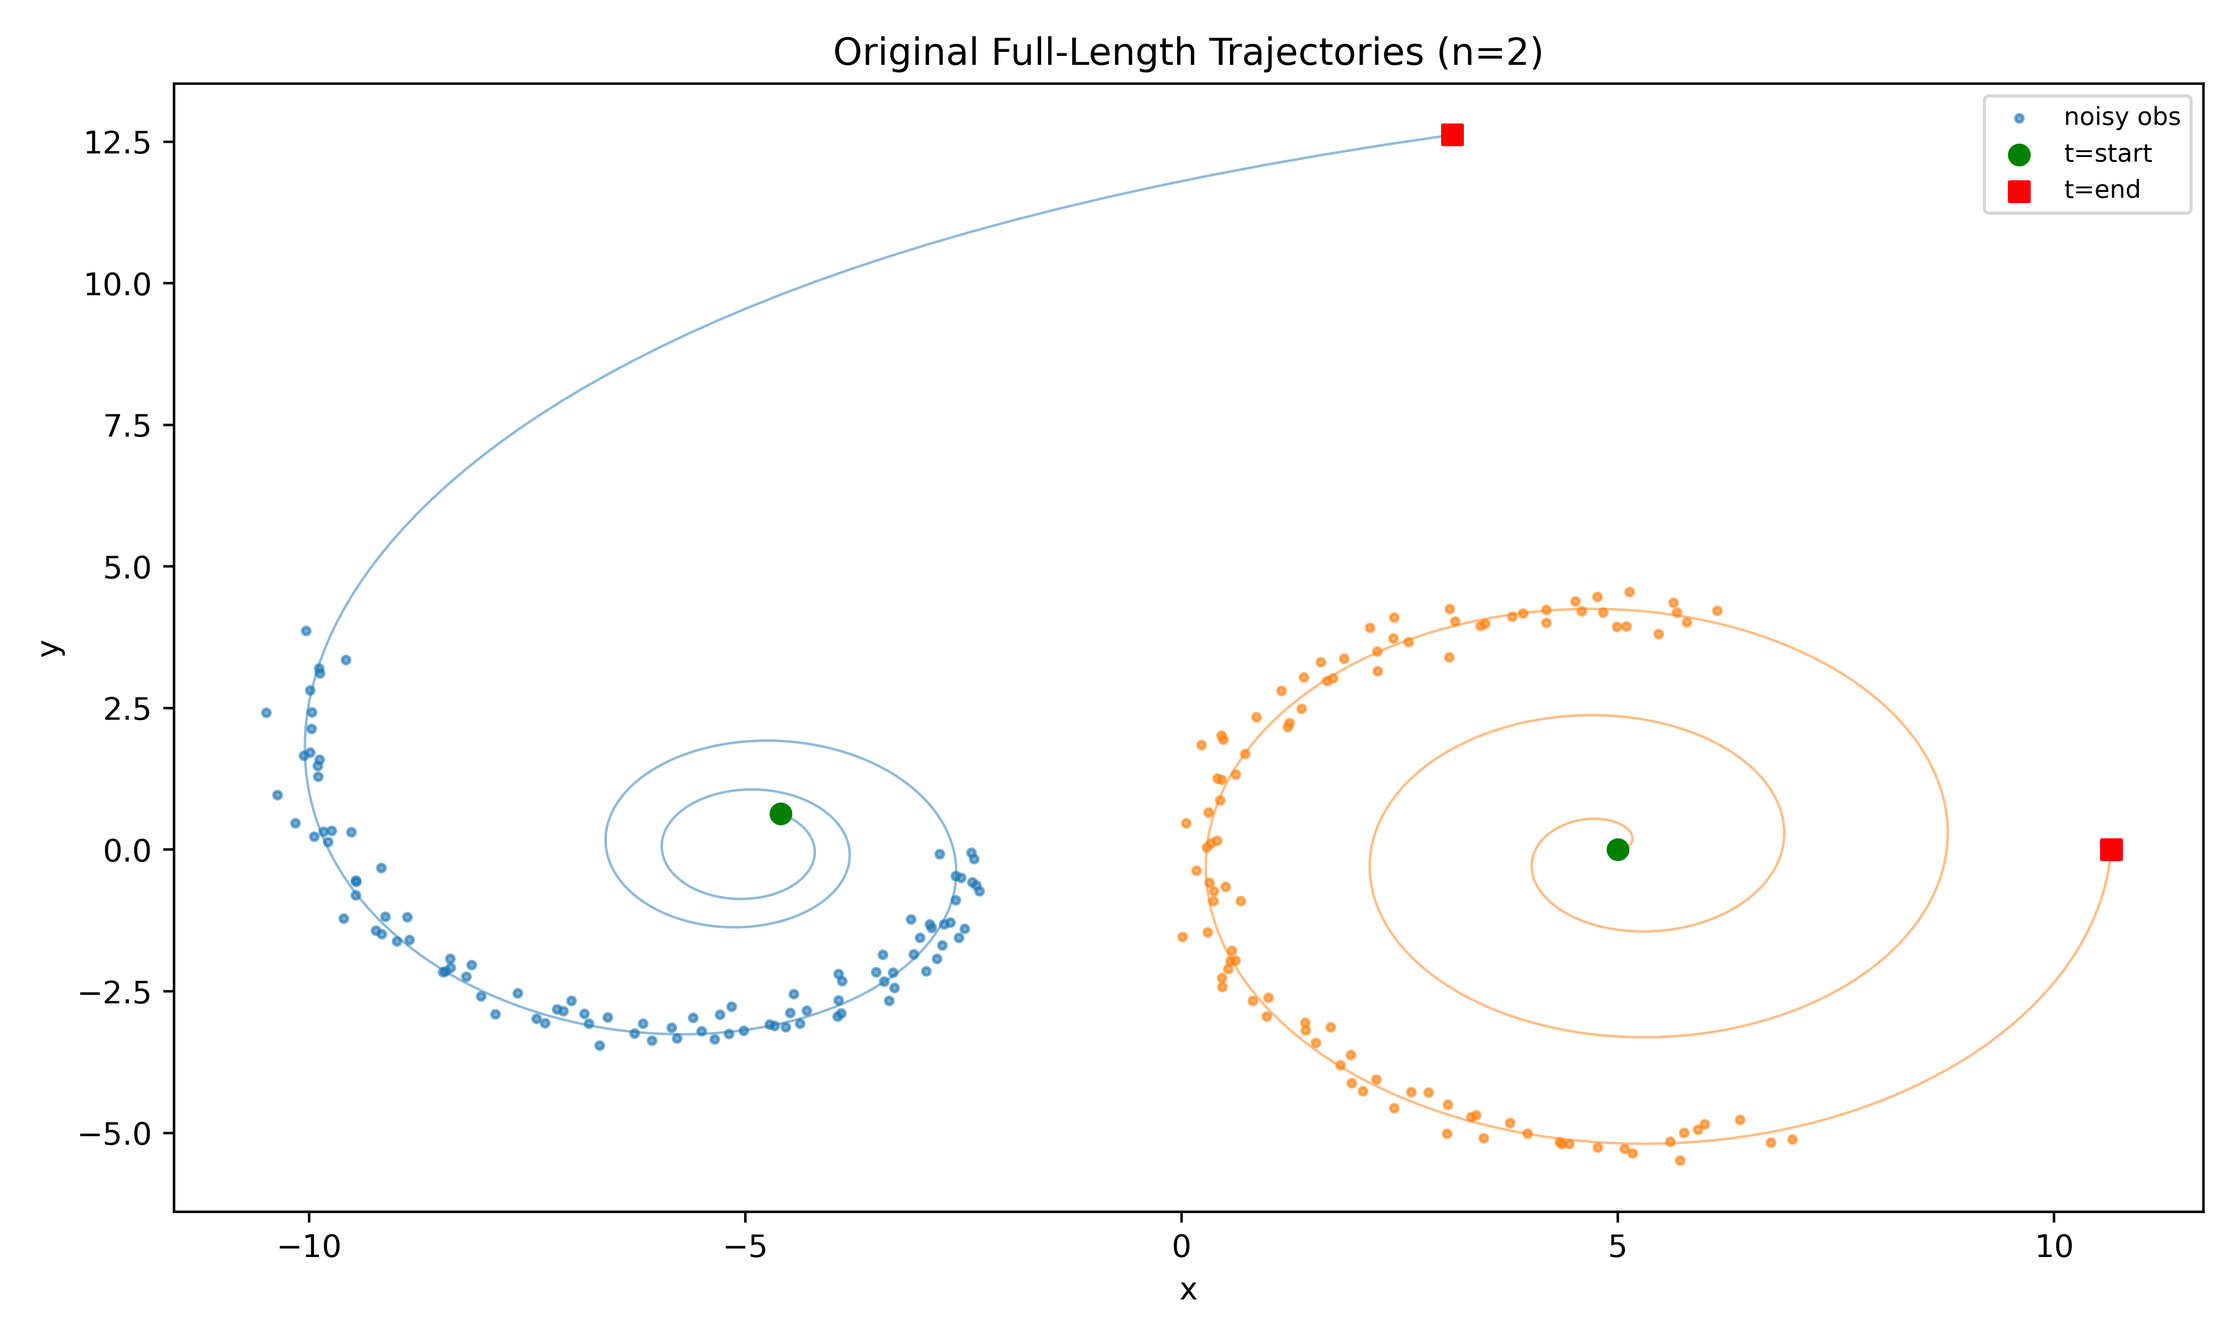
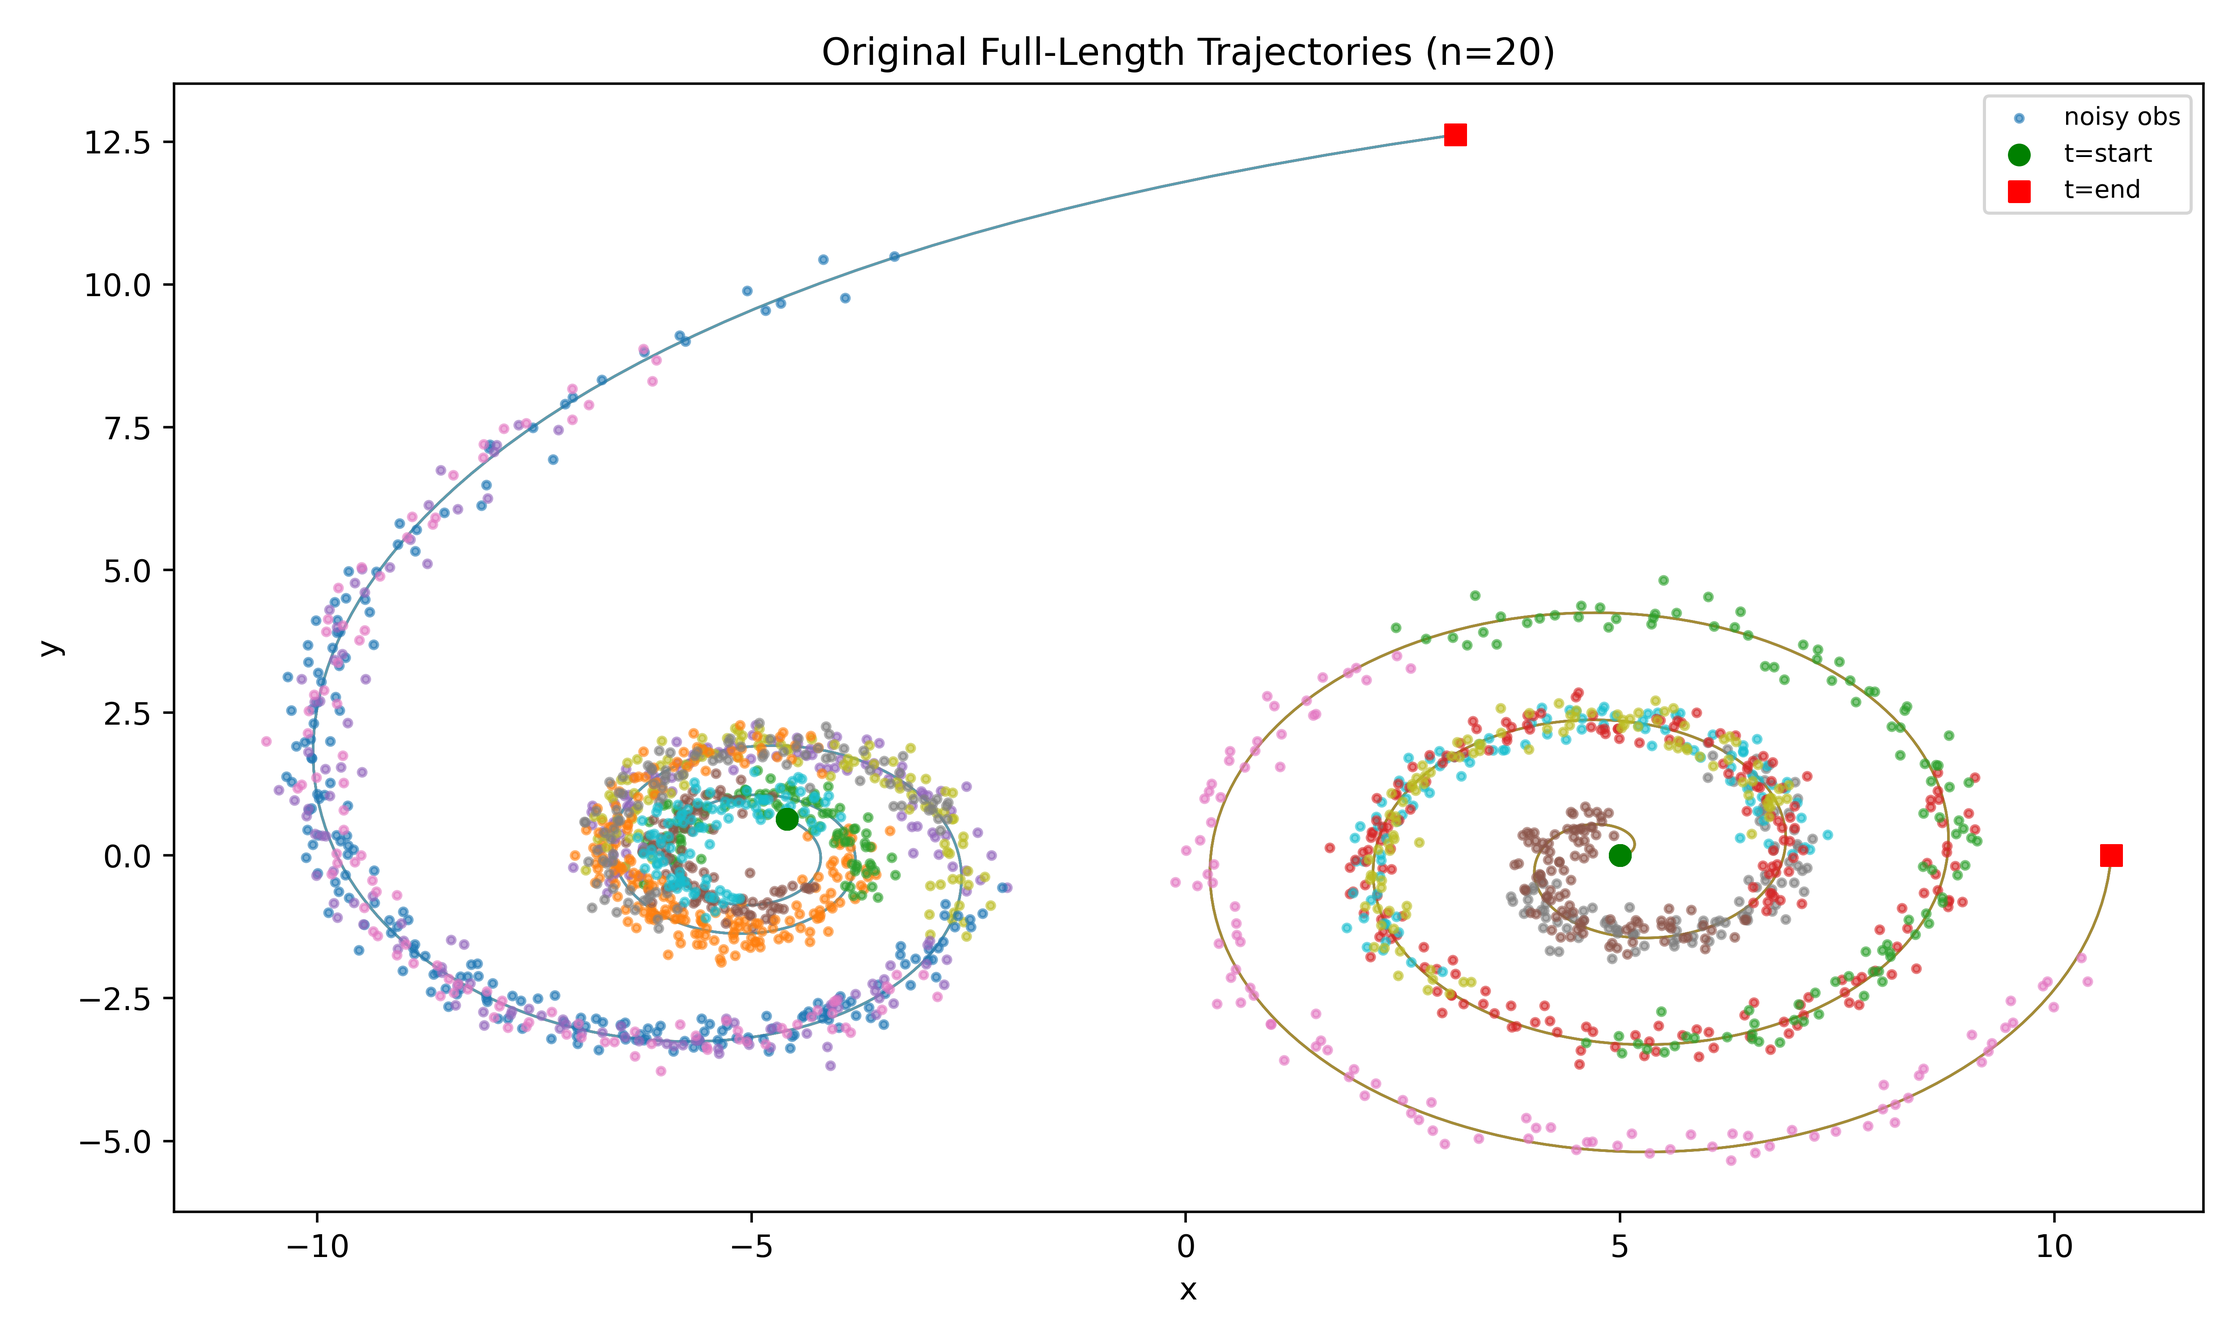
improved data generation + plotting

diff --git a/Experiments/extrapolation_experiment.py b/Experiments/extrapolation_experiment.py
@@ -73,8 +73,8 @@ def plot_original_trajectories(orig_trajs, samp_trajs, orig_ts, n_plot=10, figsi
 #Indicies of the 4 spirals
 VIZ_SPIRAL_IDX = [0, 1, 2, 3]
 
-def visualize(func, rec, dec, orig_trajs, samp_trajs, samp_ts, orig_ts_np,
-              start_idxs, latent_dim, device, save_path):
+def visualize(func, rec, dec, orig_trajs, samp_trajs, samp_ts, orig_ts_np, 
+              latent_dim, device, save_path, extrap_stop=8*np.pi):
     with torch.no_grad():
         fig, axes = plt.subplots(2, 2, figsize=(12, 10))
         axes = axes.flatten()
@@ -82,47 +82,50 @@ def visualize(func, rec, dec, orig_trajs, samp_trajs, samp_ts, orig_ts_np,
         for plot_i, spiral_idx in enumerate(VIZ_SPIRAL_IDX):
             ax = axes[plot_i]
 
-            # encode exactly as training
+            orig_traj = orig_trajs[spiral_idx].cpu().numpy()  # (ntotal, 2)
+
+            # --- Build a noisy observation spanning the FULL curve ---
+            # Add noise to every point on the original trajectory
+            noise = torch.randn_like(orig_trajs[spiral_idx]) * 0.2
+            full_noisy_traj = orig_trajs[spiral_idx] + noise  # (ntotal, 2)
+
+            # --- Encode full noisy trajectory in reverse to get z0 at t=0 ---
             h = rec.initHidden().to(device)
-            for t in reversed(range(samp_trajs.size(1))):
-                obs = samp_trajs[:, t, :]
+            for t in reversed(range(full_noisy_traj.size(0))):
+                obs = full_noisy_traj[t, :].unsqueeze(0)  # (1, 2)
                 out, h = rec.forward(obs, h)
 
             qz0_mean, qz0_logvar = out[:, :latent_dim], out[:, latent_dim:]
             epsilon = torch.randn(qz0_mean.size()).to(device)
-            z0_all = epsilon * torch.exp(0.5 * qz0_logvar) + qz0_mean
-            z0 = z0_all[spiral_idx]
+            z0 = epsilon * torch.exp(0.5 * qz0_logvar) + qz0_mean  # (1, latent_dim)
 
-            orig_traj = orig_trajs[spiral_idx].cpu().numpy()
-            samp_traj = samp_trajs[spiral_idx].cpu().numpy()
-            t0_idx = start_idxs[spiral_idx]
-            abs_start_t = orig_ts_np[t0_idx]          # real start time for THIS spiral
+            # --- Extrapolate from t=0 forward to extrap_stop ---
+            ts_extrap = torch.linspace(orig_ts_np[0], extrap_stop, 3000).float().to(device)
+            xs_extrap = dec(odeint(func, z0, ts_extrap)).cpu().numpy()  # (3000, 2)
 
-            # Forward extrapolation
-            ts_fwd = torch.linspace(abs_start_t, orig_ts_np[-1], 2000).float().to(device)
-            xs_fwd = dec(odeint(func, z0, ts_fwd)).cpu().numpy()
-
-            # Backward extrapolation (now trained!)
-            back_span = abs_start_t - orig_ts_np[0]   # how far back we can go
-            ts_back = torch.linspace(abs_start_t, abs_start_t - back_span, 1000).float().to(device)
-            xs_back = dec(odeint(func, z0, ts_back)).cpu().numpy()
-
+            # --- Plot ---
             ax.plot(orig_traj[:, 0], orig_traj[:, 1],
-                    'g', label='true trajectory (full)', linewidth=1.5)
-            ax.plot(xs_fwd[:, 0], xs_fwd[:, 1],
-                    'r', label='learned forward', linewidth=1.2)
-            ax.plot(xs_back[:, 0], xs_back[:, 1],
-                    'c', label='learned backward', linewidth=1.2)
-            ax.scatter(samp_traj[:, 0], samp_traj[:, 1],
-                       label='observed data', s=4, alpha=0.7, color='blue')
+                    'g', label='true trajectory (train range)', linewidth=1.5)
+            ax.plot(xs_extrap[:, 0], xs_extrap[:, 1],
+                    'r', label=f'extrapolated (t=0 → {extrap_stop/np.pi:.0f}π)', linewidth=1.2)
+            ax.scatter(full_noisy_traj[:, 0].cpu().numpy(),
+                       full_noisy_traj[:, 1].cpu().numpy(),
+                       label='full noisy obs (encoder input)', s=4, alpha=0.4, color='blue')
 
-            ax.set_title(f'Spiral {spiral_idx} (obs start at t≈{abs_start_t:.2f})')
-            ax.legend(fontsize=8)
+            # Mark t=0 on the true trajectory
+            ax.scatter(*orig_traj[0], color='green', s=80, zorder=5, marker='o',
+                       label='t=0 (true)')
+            # Mark where extrapolation ends
+            ax.scatter(*xs_extrap[-1], color='red', s=80, zorder=5, marker='s',
+                       label=f't={extrap_stop/np.pi:.0f}π (extrap end)')
+
+            ax.set_title(f'Spiral {spiral_idx} — encoded to t=0, extrap to {extrap_stop/np.pi:.0f}π')
+            ax.legend(fontsize=7)
 
         plt.tight_layout()
         plt.savefig(save_path, dpi=300)
         plt.close()
-        print(f'Saved bidirectional visualization at {save_path}')    
+        print(f'Saved extrapolation visualization at {save_path}')    
      
 
 if __name__ == '__main__':
@@ -152,112 +155,112 @@ if __name__ == '__main__':
         start=start,
         stop=stop,
         noise_std=noise_std,
-        a=a, b=b, rng=data_rng
+        a=a, b=b, rng=data_rng, start_at_center=True
     )
 
     orig_trajs = torch.from_numpy(orig_trajs).float().to(device)
     samp_trajs = torch.from_numpy(samp_trajs).float().to(device)
     samp_ts = torch.from_numpy(samp_ts).float().to(device)
 
-    plot_original_trajectories(orig_trajs, samp_trajs, orig_ts, n_plot=2)
+    plot_original_trajectories(orig_trajs, samp_trajs, orig_ts, n_plot=20)
 
-    # # model
-    # func = LatentODEfunc(latent_dim, nhidden).to(device)
-    # rec = RecognitionRNN(latent_dim, obs_dim, rnn_nhidden, nspiral).to(device)
-    # dec = Decoder(latent_dim, obs_dim, nhidden).to(device)
-    # params = (list(func.parameters()) + list(dec.parameters()) + list(rec.parameters()))
-    # optimizer = optim.Adam(params, lr=args.lr)
-    # loss_meter = RunningAverageMeter()
+    # model
+    func = LatentODEfunc(latent_dim, nhidden).to(device)
+    rec = RecognitionRNN(latent_dim, obs_dim, rnn_nhidden, nspiral).to(device)
+    dec = Decoder(latent_dim, obs_dim, nhidden).to(device)
+    params = (list(func.parameters()) + list(dec.parameters()) + list(rec.parameters()))
+    optimizer = optim.Adam(params, lr=args.lr)
+    loss_meter = RunningAverageMeter()
 
-    # anneal_label = "kl_anneal" if args.kl_anneal else "no_kl_anneal"
-    # print(f'Starting training: niters={args.niters}, lr={args.lr}, 'f'kl_anneal={args.kl_anneal}, seed={args.seed}')
+    anneal_label = "kl_anneal" if args.kl_anneal else "no_kl_anneal"
+    print(f'Starting training: niters={args.niters}, lr={args.lr}, 'f'kl_anneal={args.kl_anneal}, seed={args.seed}')
     
-    # log_path = f'./log-{args.niters}-{args.lr}-{anneal_label}.csv'
-    # log_file = open(log_path, 'w', newline='')
-    # csv_writer = csv.writer(log_file)
-    # csv_writer.writerow(['iter', 'loss', 'elbo', 'kl', 'weighted_kl', 'kl_weight', 'extrap_mse'])
+    log_path = f'./log-{args.niters}-{args.lr}-{anneal_label}.csv'
+    log_file = open(log_path, 'w', newline='')
+    csv_writer = csv.writer(log_file)
+    csv_writer.writerow(['iter', 'loss', 'elbo', 'kl', 'weighted_kl', 'kl_weight', 'extrap_mse'])
 
-    # try:
-    #     for itr in range(1, args.niters + 1):
-    #         optimizer.zero_grad()
-    #         # backward in time to infer q(z_0)
-    #         h = rec.initHidden().to(device)
+    try:
+        for itr in range(1, args.niters + 1):
+            optimizer.zero_grad()
+            # backward in time to infer q(z_0)
+            h = rec.initHidden().to(device)
 
-    #         #Encode first half
-    #         for t in reversed(range(samp_trajs.size(1))):
-    #             obs = samp_trajs[:, t, :]
-    #             out, h = rec.forward(obs, h)
+            #Encode first half
+            for t in reversed(range(samp_trajs.size(1))):
+                obs = samp_trajs[:, t, :]
+                out, h = rec.forward(obs, h)
 
-    #         qz0_mean, qz0_logvar = out[:, :latent_dim], out[:, latent_dim:]
-    #         epsilon = torch.randn(qz0_mean.size()).to(device)
-    #         z0 = epsilon * torch.exp(.5 * qz0_logvar) + qz0_mean
+            qz0_mean, qz0_logvar = out[:, :latent_dim], out[:, latent_dim:]
+            epsilon = torch.randn(qz0_mean.size()).to(device)
+            z0 = epsilon * torch.exp(.5 * qz0_logvar) + qz0_mean
 
-    #         # forward in time and solve ode for reconstructions
-    #         pred_z = odeint(func, z0, samp_ts).permute(1, 0, 2)
-    #         pred_x = dec(pred_z)
+            # forward in time and solve ode for reconstructions
+            pred_z = odeint(func, z0, samp_ts).permute(1, 0, 2)
+            pred_x = dec(pred_z)
 
-    #         # compute loss
-    #         noise_std_ = torch.zeros(pred_x.size()).to(device) + noise_std
-    #         noise_logvar = 2. * torch.log(noise_std_).to(device)
+            # compute loss
+            noise_std_ = torch.zeros(pred_x.size()).to(device) + noise_std
+            noise_logvar = 2. * torch.log(noise_std_).to(device)
             
-    #         logpx = log_normal_pdf(
-    #             samp_trajs, pred_x, noise_logvar).sum(-1).sum(-1)
-    #         pz0_mean = pz0_logvar = torch.zeros(z0.size()).to(device)
-    #         analytic_kl = normal_kl(qz0_mean, qz0_logvar,
-    #                                 pz0_mean, pz0_logvar).sum(-1)
+            logpx = log_normal_pdf(
+                samp_trajs, pred_x, noise_logvar).sum(-1).sum(-1)
+            pz0_mean = pz0_logvar = torch.zeros(z0.size()).to(device)
+            analytic_kl = normal_kl(qz0_mean, qz0_logvar,
+                                    pz0_mean, pz0_logvar).sum(-1)
 
-    #         #Annealing strategy from: https://github.com/YuliaRubanova/latent_ode/blob/master/run_models.py#L259
-    #         wait_until_kl_inc = args.niters // 10
-    #         if args.kl_anneal:
-    #             if itr < wait_until_kl_inc:
-    #                 kl_weight = 0
-    #             else:
-    #                 kl_weight = (1 - 0.99 ** (itr - wait_until_kl_inc))
-    #         else:
-    #             kl_weight = 1.0
+            #Annealing strategy from: https://github.com/YuliaRubanova/latent_ode/blob/master/run_models.py#L259
+            wait_until_kl_inc = args.niters // 10
+            if args.kl_anneal:
+                if itr < wait_until_kl_inc:
+                    kl_weight = 0
+                else:
+                    kl_weight = (1 - 0.99 ** (itr - wait_until_kl_inc))
+            else:
+                kl_weight = 1.0
 
-    #         loss = torch.mean(-logpx + kl_weight*analytic_kl, dim=0)
-    #         loss.backward()
-    #         optimizer.step()
-    #         loss_meter.update(loss.item())
+            loss = torch.mean(-logpx + kl_weight*analytic_kl, dim=0)
+            loss.backward()
+            optimizer.step()
+            loss_meter.update(loss.item())
 
-    #         #raw per-iteration values
-    #         loss_raw = loss.item()
-    #         elbo_raw = logpx.mean().item()
-    #         wkl_raw = kl_weight * analytic_kl.mean().item()
+            #raw per-iteration values
+            loss_raw = loss.item()
+            elbo_raw = logpx.mean().item()
+            wkl_raw = kl_weight * analytic_kl.mean().item()
 
-    #         csv_writer.writerow([itr, loss_raw, elbo_raw, analytic_kl.mean().item(), wkl_raw, kl_weight])
+            csv_writer.writerow([itr, loss_raw, elbo_raw, analytic_kl.mean().item(), wkl_raw, kl_weight])
 
-    #         print('Iter: {}, running avg elbo: {:.4f}, running kl: {:.4f}, kl_weight: {:.4f}'.format(itr, -loss_meter.avg, analytic_kl.mean().item(), kl_weight))
+            print('Iter: {}, running avg elbo: {:.4f}, running kl: {:.4f}, kl_weight: {:.4f}'.format(itr, -loss_meter.avg, analytic_kl.mean().item(), kl_weight))
 
-    # except KeyboardInterrupt:
-    #     if args.train_dir is not None:
-    #         ckpt_path = os.path.join(args.train_dir, 'ckpt.pth')
-    #         torch.save({
-    #             'func_state_dict': func.state_dict(),
-    #             'rec_state_dict': rec.state_dict(),
-    #             'dec_state_dict': dec.state_dict(),
-    #             'optimizer_state_dict': optimizer.state_dict(),
-    #             'orig_trajs': orig_trajs,
-    #             'samp_trajs': samp_trajs,
-    #             'orig_ts': orig_ts,
-    #             'samp_ts': samp_ts,
-    #         }, ckpt_path)
-    #         print('Stored ckpt at {}'.format(ckpt_path))
+    except KeyboardInterrupt:
+        if args.train_dir is not None:
+            ckpt_path = os.path.join(args.train_dir, 'ckpt.pth')
+            torch.save({
+                'func_state_dict': func.state_dict(),
+                'rec_state_dict': rec.state_dict(),
+                'dec_state_dict': dec.state_dict(),
+                'optimizer_state_dict': optimizer.state_dict(),
+                'orig_trajs': orig_trajs,
+                'samp_trajs': samp_trajs,
+                'orig_ts': orig_ts,
+                'samp_ts': samp_ts,
+            }, ckpt_path)
+            print('Stored ckpt at {}'.format(ckpt_path))
 
-    # log_file.close()
-    # print(f"Saved training log to {log_path}")
-    # print(f'Training complete after {itr} iters.')
+    log_file.close()
+    print(f"Saved training log to {log_path}")
+    print(f'Training complete after {itr} iters.')
 
-    # #ensures memory is returned to the driver cleanly.
-    # if torch.cuda.is_available():
-    #     torch.cuda.empty_cache()
+    #ensures memory is returned to the driver cleanly.
+    if torch.cuda.is_available():
+        torch.cuda.empty_cache()
 
-    # if args.visualize:
-    #     fig_name = f'./vis-{args.niters}-{args.lr}-{anneal_label}.png'
-    #     visualize(
-    #         func, rec, dec,
-    #         orig_trajs, samp_trajs, samp_ts,
-    #         orig_ts, start_idxs, latent_dim, device,
-    #         save_path=fig_name
-    #     )
+    if args.visualize:
+        fig_name = f'./vis-{args.niters}-{args.lr}-{anneal_label}.png'
+        visualize(
+            func, rec, dec,
+            orig_trajs, samp_trajs, samp_ts,
+            orig_ts, latent_dim, device,
+            save_path=fig_name
+        )

diff --git a/models/latent_ode.py b/models/latent_ode.py
@@ -36,7 +36,8 @@ def generate_spiral2d(nspiral=1000,
                       a=0.,
                       b=1.,
                       savefig=True,
-                      rng=None):
+                      rng=None, 
+                      start_at_center=False):
     """Parametric formula for 2d spiral is `r = a + b * theta`.
 
     Args:
@@ -87,17 +88,23 @@ def generate_spiral2d(nspiral=1000,
     orig_trajs = []
     samp_trajs = []
     for _ in range(nspiral):
-        # don't sample t0 very near the start or the end
-        #independently draws a new random t0 for each of the 1000 spirals. 
-        #So each trajectory gets its own random starting point, and the 100-point window 
-        #[t0_idx : t0_idx + nsample] is cut from that unique position.
-        t0_idx = rng.multinomial(
-            1, [1. / (ntotal - 2. * nsample)] * (ntotal - int(2 * nsample)))
-        t0_idx = np.argmax(t0_idx) + nsample
-
         cc = bool(rng.rand() > .5)  # uniformly select rotation
         orig_traj = orig_traj_cc if cc else orig_traj_cw
         orig_trajs.append(orig_traj)
+
+        if start_at_center:
+            t0_idx = rng.multinomial(
+                1, [1. / (ntotal - nsample)] * (ntotal - nsample))
+            t0_idx = np.argmax(t0_idx)
+
+        else:
+            # don't sample t0 very near the start or the end
+            #independently draws a new random t0 for each of the 1000 spirals. 
+            #So each trajectory gets its own random starting point, and the 100-point window 
+            #[t0_idx : t0_idx + nsample] is cut from that unique position.
+            t0_idx = rng.multinomial(
+                1, [1. / (ntotal - 2. * nsample)] * (ntotal - int(2 * nsample)))
+            t0_idx = np.argmax(t0_idx) + nsample
 
         samp_traj = orig_traj[t0_idx:t0_idx + nsample, :].copy()
         samp_traj += rng.randn(*samp_traj.shape) * noise_std

diff --git a/run_experiments.py b/run_experiments.py
@@ -39,7 +39,7 @@ def parse_args():
 if __name__ == '__main__':
     args = parse_args()
 
-    NITERS_LIST    = [1000]
+    NITERS_LIST    = [100]
     KL_ANNEAL_LIST = [True]
     LR_LIST        = [0.005]
 
